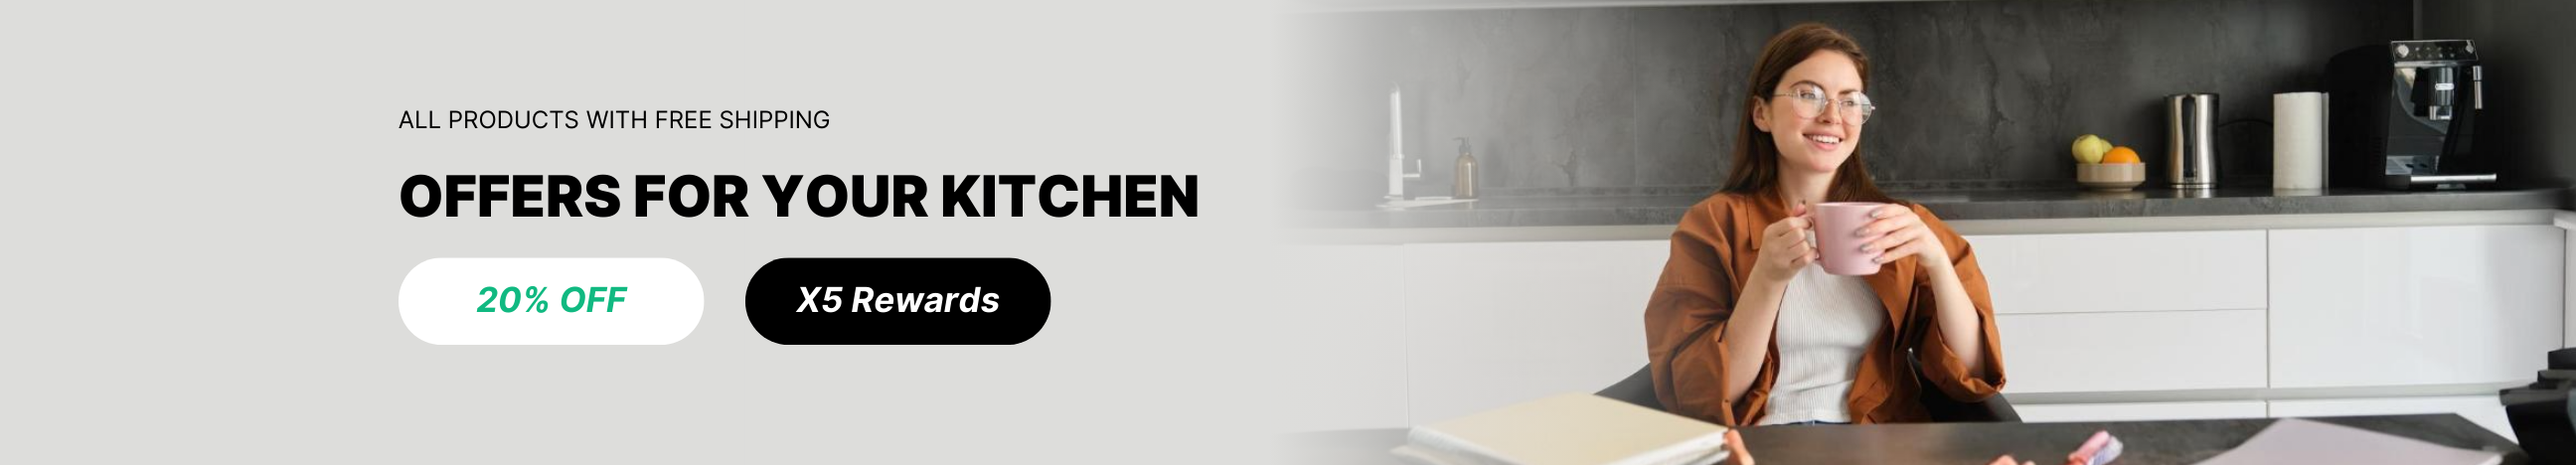
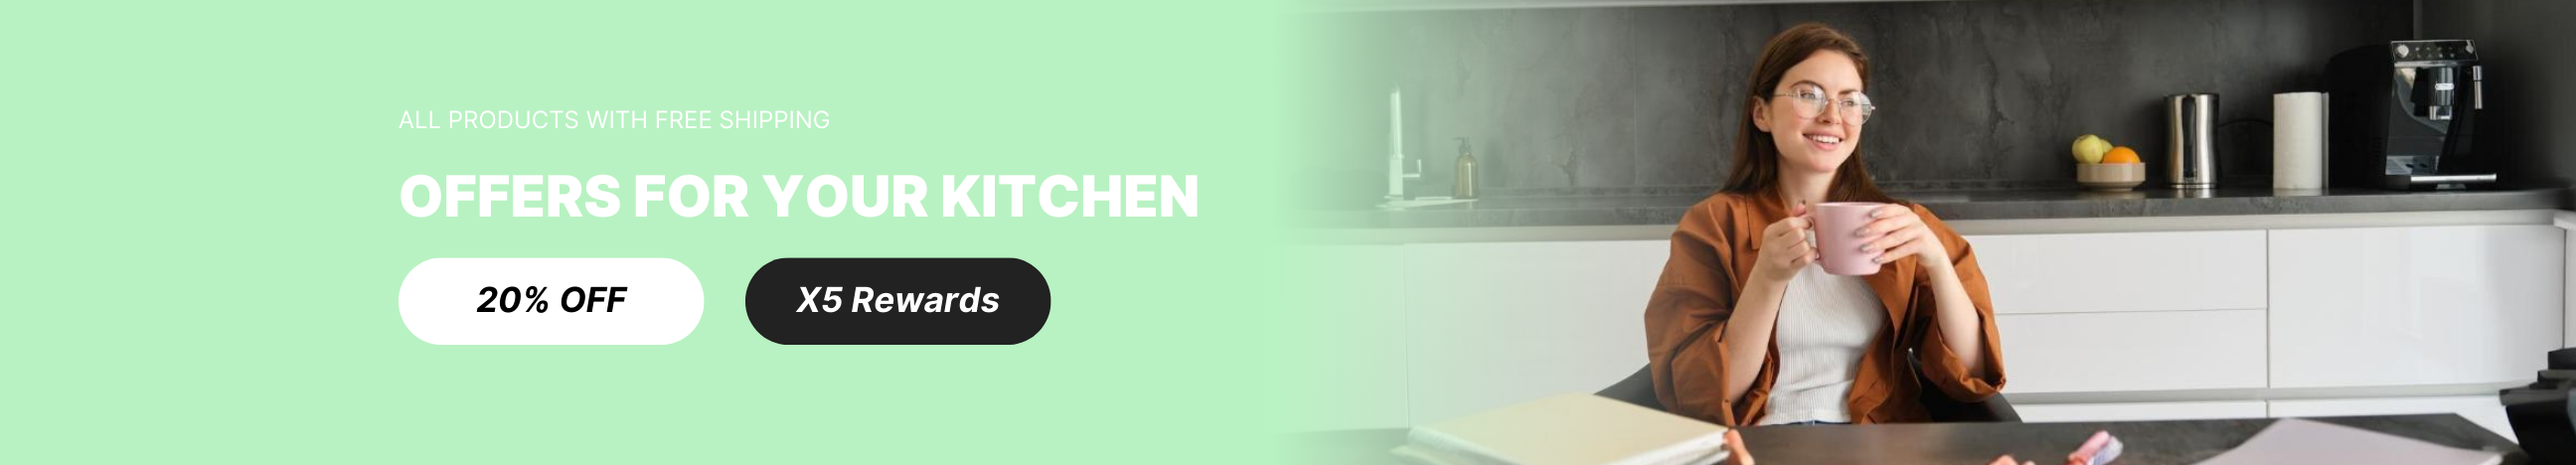
styles

diff --git a/frontend-main/src/views/home/ItemCard.vue b/frontend-main/src/views/home/ItemCard.vue
@@ -15,12 +15,12 @@
             <span class="price flex">
                 <span class="dollar">$</span>{{ formatPriceToUSD(props.content.price) }}
 
-                <div class="tag discount" v-if="props.content.discount">
+                <div class="tag" v-if="props.content.discount">
                     <span>-{{ props.content.discount_value }}%</span>
                 </div>
             </span>
 
-            <div class="shipping flex green">
+            <div class="shipping flex">
                 <span>Free shipping</span>
             </div>
 
@@ -68,7 +68,7 @@ const onSelect = (id) => {
 }
 
 .body {
-    padding: 0 0.5rem;
+    padding: 0rem;
     display: flex;
     flex-direction: column;
     font-size: var(--text-size-1);
@@ -90,9 +90,8 @@ const onSelect = (id) => {
 }
 
 .shipping {
-    font-size: var(--text-size-0);
+    font-size: var(--text-size-1);
     margin-top: 0rem;
-    font-weight: 400;
 }
 
 .dollar {
@@ -103,7 +102,7 @@ const onSelect = (id) => {
     font-size: var(--text-size-0);
     white-space: nowrap;
     text-align: center;
-    color: var(--text-w);
+    color: var(--primary-a);
     max-width: fit-content;
     display: inline-block;
     border-radius: 0px;

diff --git a/frontend-main/src/views/home/RowGrid.vue b/frontend-main/src/views/home/RowGrid.vue
@@ -38,7 +38,7 @@ const itemList = computed(() => props.content.slice(0, maxItems.value));
     align-items: flex-start;
     padding: 1rem;
     border-radius: 16px;
-    background: rgba(252, 188, 5, 0.1);
+    background: color-mix(in srgb, var(--pastel-yellow) 30%, transparent);
 }
 
 .title {

diff --git a/frontend-main/src/components/header/AgentButton.vue b/frontend-main/src/components/header/AgentButton.vue
@@ -52,7 +52,7 @@ const { togglePanel, getCurrentUser, setADAprice } = headerAPI();
 }
 
 .connect-wallet {
-    border-radius: 12px;
+    border-radius: 999px;
     height: 44px;
     font-weight: 500;
     font-size: var(--text-size-1);

diff --git a/frontend-main/src/assets/base.css b/frontend-main/src/assets/base.css
@@ -102,7 +102,7 @@
   --background-c: #181a20;
   --background-d: #1e2329;
 
-  --text-a: #0f1111;
+  --text-a: #222;
   --text-b: var(--p-surface-600);
   --text-w: #ffffff;
 
